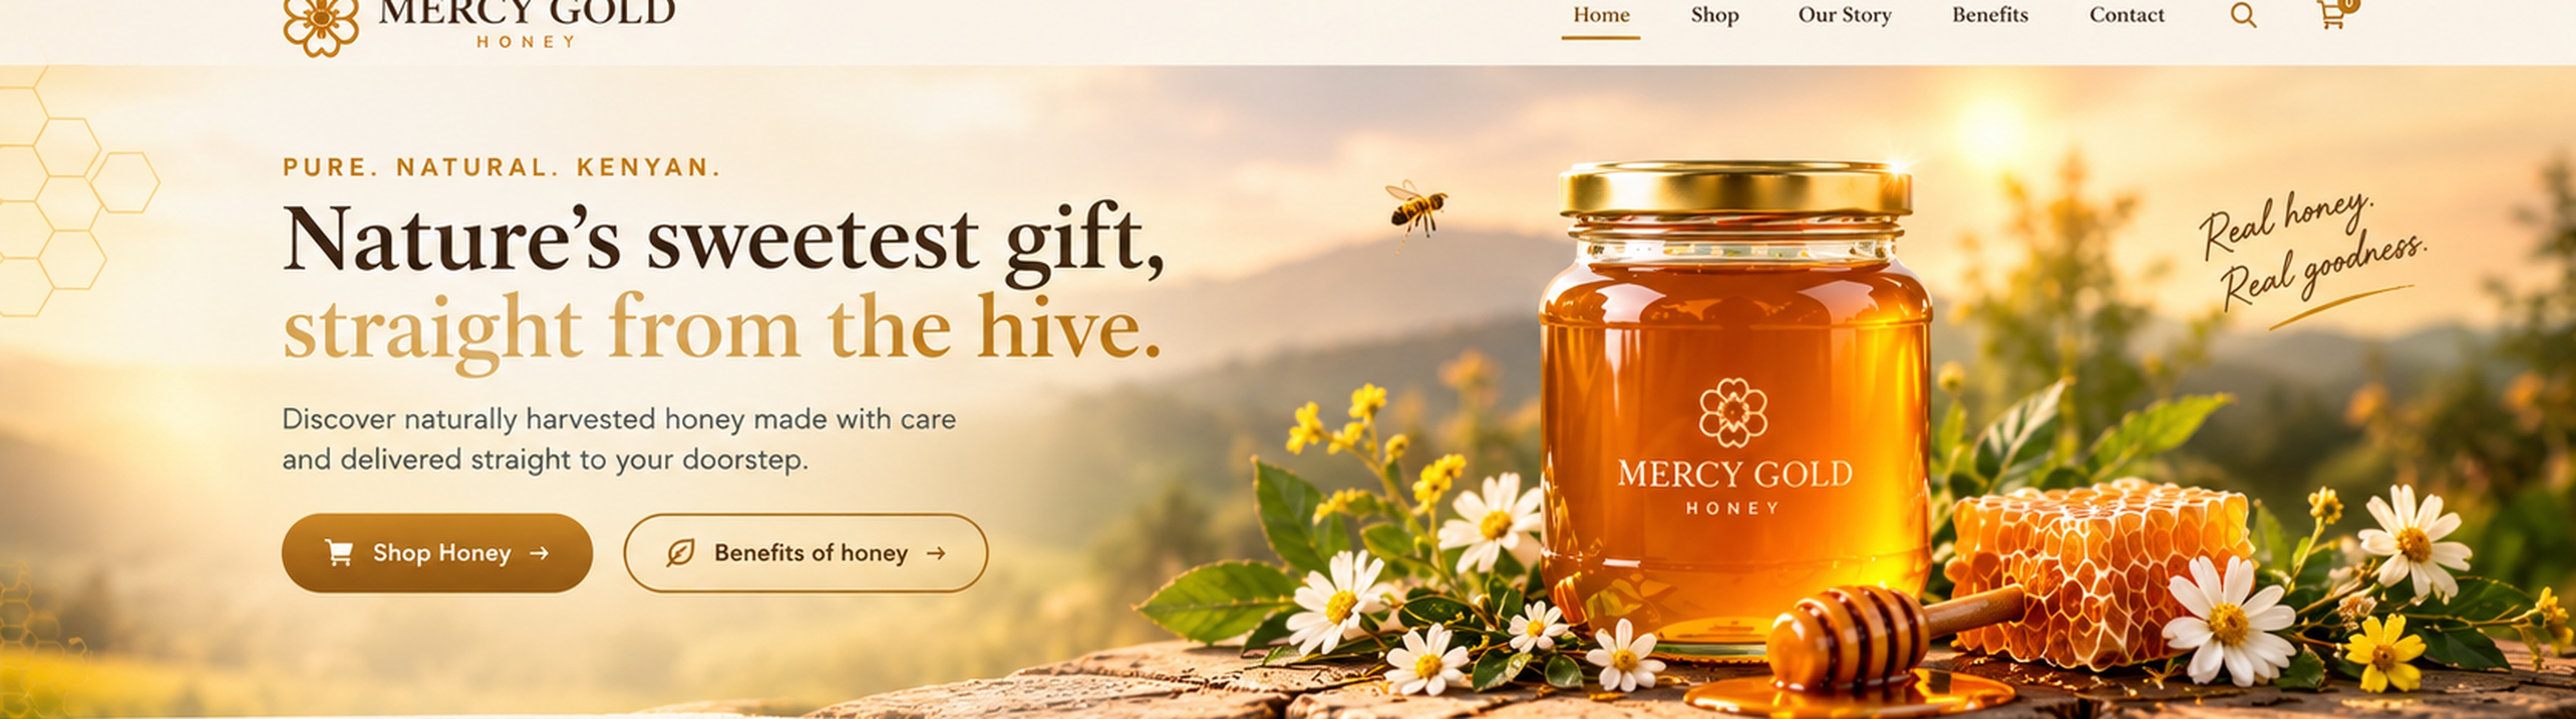
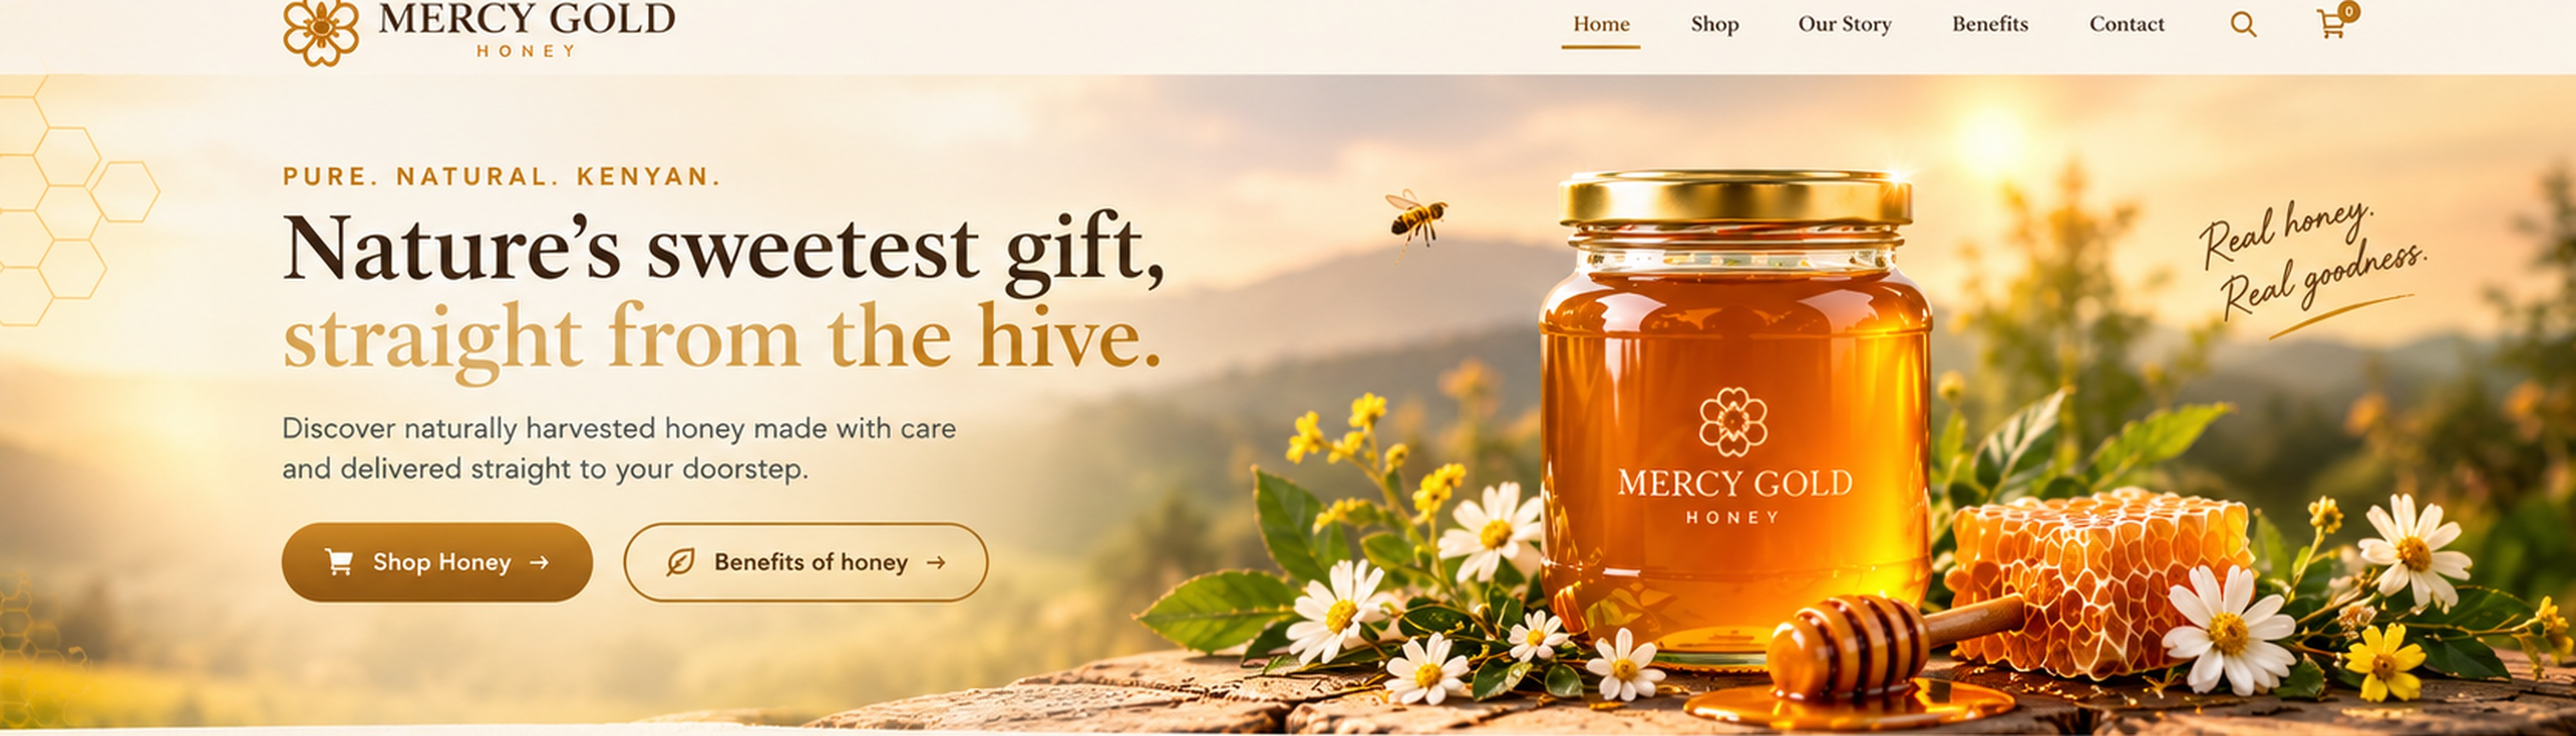
fix(next): home page exact mock layout and photo crops
Full-bleed scenic hero with left fade, 4-up variety grid with
mock-extracted photos, trust strip dividers. Buttons and featured
section retained; header/footer untouched.

diff --git a/frontend-next/app/globals.css b/frontend-next/app/globals.css
@@ -3209,3 +3209,237 @@ button.linkish {
     right: 1rem;
   }
 }
+
+
+/* ——— Home exact mock match (final overrides) ——— */
+.hero-block--scenic {
+  position: relative;
+  isolation: isolate;
+  padding: 0 !important;
+  min-height: clamp(420px, 58vw, 560px);
+  overflow: hidden;
+  background: #2a1a0c;
+}
+
+.hero-block--scenic .hero-block__bg {
+  position: absolute;
+  inset: 0;
+  z-index: 0;
+}
+
+.hero-block--scenic .hero-block__bg img {
+  width: 100%;
+  height: 100%;
+  object-fit: cover;
+  object-position: 70% center;
+  display: block;
+}
+
+.hero-block--scenic .hero-block__shade {
+  position: absolute;
+  inset: 0;
+  z-index: 1;
+  pointer-events: none;
+  background: linear-gradient(
+    100deg,
+    rgba(255, 250, 240, 0.88) 0%,
+    rgba(255, 250, 240, 0.72) 28%,
+    rgba(255, 250, 240, 0.2) 48%,
+    rgba(255, 250, 240, 0) 62%
+  );
+}
+
+.hero-block--scenic .hero-block__inner {
+  position: relative;
+  z-index: 2;
+  display: block !important;
+  min-height: clamp(420px, 58vw, 560px);
+  padding-block: 3.25rem !important;
+}
+
+.hero-block--scenic .hero-block__text {
+  max-width: 34rem;
+  padding: 0;
+  background: none !important;
+  border-radius: 0 !important;
+}
+
+.hero-block--scenic .hero-block__eyebrow {
+  color: var(--color-primary);
+  font-size: 0.78rem;
+  letter-spacing: 0.14em;
+}
+
+.hero-block--scenic h1 {
+  margin: 0.55rem 0 0.85rem;
+  font-size: clamp(2.1rem, 4.6vw, 3.15rem);
+  line-height: 1.12;
+  letter-spacing: -0.03em;
+  color: #2d241f;
+}
+
+.hero-block--scenic .hero-block__title-accent {
+  color: var(--color-primary);
+}
+
+.hero-block--scenic .hero-block__text p {
+  margin: 0 0 1.35rem;
+  max-width: 26rem;
+  color: #5c534c;
+  font-size: 1.05rem;
+  line-height: 1.55;
+}
+
+.hero-block--scenic .hero-block__actions {
+  display: flex;
+  flex-wrap: wrap;
+  gap: 0.75rem;
+}
+
+.hero-block--scenic .hero-block__btn {
+  display: inline-flex;
+  align-items: center;
+  gap: 0.45rem;
+  border-radius: 999px;
+  padding: 0.75rem 1.25rem;
+}
+
+.hero-block--scenic .hero-block__btn--ghost {
+  background: rgba(255, 253, 248, 0.92);
+  border: 1px solid rgba(183, 121, 31, 0.35);
+  color: var(--color-primary-dark);
+}
+
+.hero-block--scenic .hero-block__script {
+  position: absolute;
+  right: max(1.25rem, calc((100% - min(100% - 40px, 1120px)) / 2));
+  top: 2rem;
+  margin: 0;
+  color: #6b4510;
+  font-family: Georgia, 'Times New Roman', serif;
+  font-size: clamp(1.15rem, 2.3vw, 1.5rem);
+  font-style: italic;
+  line-height: 1.35;
+  text-align: right;
+  text-shadow: 0 1px 2px rgba(255, 253, 248, 0.9);
+}
+
+/* Trust strip closer to mock */
+.home-v2 .trust-strip {
+  padding: 1.35rem 0;
+  background: #fffdf8;
+  border-block: 1px solid var(--color-border);
+}
+
+.home-v2 .trust-strip__inner {
+  display: grid;
+  grid-template-columns: repeat(4, minmax(0, 1fr));
+  gap: 0;
+  align-items: stretch;
+}
+
+.home-v2 .trust-strip__item {
+  display: flex;
+  align-items: flex-start;
+  gap: 0.75rem;
+  padding: 0.35rem 1.15rem;
+  border-right: 1px solid var(--color-border);
+}
+
+.home-v2 .trust-strip__item:last-child {
+  border-right: none;
+}
+
+.home-v2 .trust-strip__icon {
+  width: 42px;
+  height: 42px;
+  border-radius: 999px;
+}
+
+/* Varieties: intro left + 4 cards row like mock */
+.home-varieties {
+  padding: 2.75rem 0 1.25rem;
+  background: #fffdf8;
+}
+
+.home-varieties__inner {
+  display: grid !important;
+  grid-template-columns: minmax(240px, 0.72fr) minmax(0, 1.7fr) !important;
+  gap: 1.75rem 2rem !important;
+  align-items: center;
+}
+
+.home-varieties__grid {
+  display: grid !important;
+  grid-template-columns: repeat(4, minmax(0, 1fr)) !important;
+  gap: 0.85rem !important;
+}
+
+.home-varieties__card {
+  border-radius: 14px;
+  overflow: hidden;
+}
+
+.home-varieties__media {
+  aspect-ratio: 1 / 0.95;
+}
+
+.home-varieties__body {
+  padding: 0.75rem 0.85rem 0.9rem;
+  padding-right: 2.4rem;
+}
+
+.home-varieties__body h3 {
+  font-size: 0.98rem;
+}
+
+.home-varieties__body p {
+  font-size: 0.75rem;
+}
+
+.home-divider {
+  margin: 0.25rem 0 0;
+  padding: 1.25rem 1rem 0.5rem;
+}
+
+@media (max-width: 1024px) {
+  .home-varieties__inner {
+    grid-template-columns: 1fr !important;
+  }
+
+  .home-varieties__grid {
+    grid-template-columns: repeat(2, minmax(0, 1fr)) !important;
+  }
+}
+
+@media (max-width: 900px) {
+  .hero-block--scenic .hero-block__inner {
+    min-height: 400px;
+    padding-block: 2.25rem !important;
+  }
+
+  .hero-block--scenic .hero-block__script {
+    top: auto;
+    bottom: 1.1rem;
+    right: 1.1rem;
+  }
+
+  .home-v2 .trust-strip__inner {
+    grid-template-columns: 1fr 1fr;
+  }
+
+  .home-v2 .trust-strip__item {
+    border-right: none;
+    padding: 0.65rem 0.5rem;
+  }
+}
+
+@media (max-width: 560px) {
+  .home-varieties__grid {
+    grid-template-columns: 1fr !important;
+  }
+
+  .home-v2 .trust-strip__inner {
+    grid-template-columns: 1fr;
+  }
+}

diff --git a/frontend-next/components/Hero.js b/frontend-next/components/Hero.js
@@ -6,14 +6,19 @@ export default function Hero() {
     <section className="hero-block hero-block--scenic">
       <div className="hero-block__bg" aria-hidden>
         {/* eslint-disable-next-line @next/next/no-img-element */}
-        <img src="/home/hero-bg.jpg" alt="" />
+        <img
+          src="/home/hero-bg.jpg"
+          alt=""
+        />
       </div>
+      <div className="hero-block__shade" aria-hidden />
       <div className="container hero-block__inner">
         <div className="hero-block__text">
           <span className="hero-block__eyebrow">Pure. Natural. Kenyan.</span>
           <h1>
             Nature&apos;s sweetest gift,
-            <span className="hero-block__title-accent"> straight from the hive.</span>
+            <br />
+            <span className="hero-block__title-accent">straight from the hive.</span>
           </h1>
           <p>
             Discover naturally harvested honey made with care and delivered
@@ -24,7 +29,10 @@ export default function Hero() {
               <IconCart size={18} />
               Shop Honey <span aria-hidden>→</span>
             </Link>
-            <Link href="/benefits" className="btn-secondary hero-block__btn hero-block__btn--ghost">
+            <Link
+              href="/benefits"
+              className="btn-secondary hero-block__btn hero-block__btn--ghost"
+            >
               <IconLeaf size={18} />
               Benefits of honey <span aria-hidden>→</span>
             </Link>
